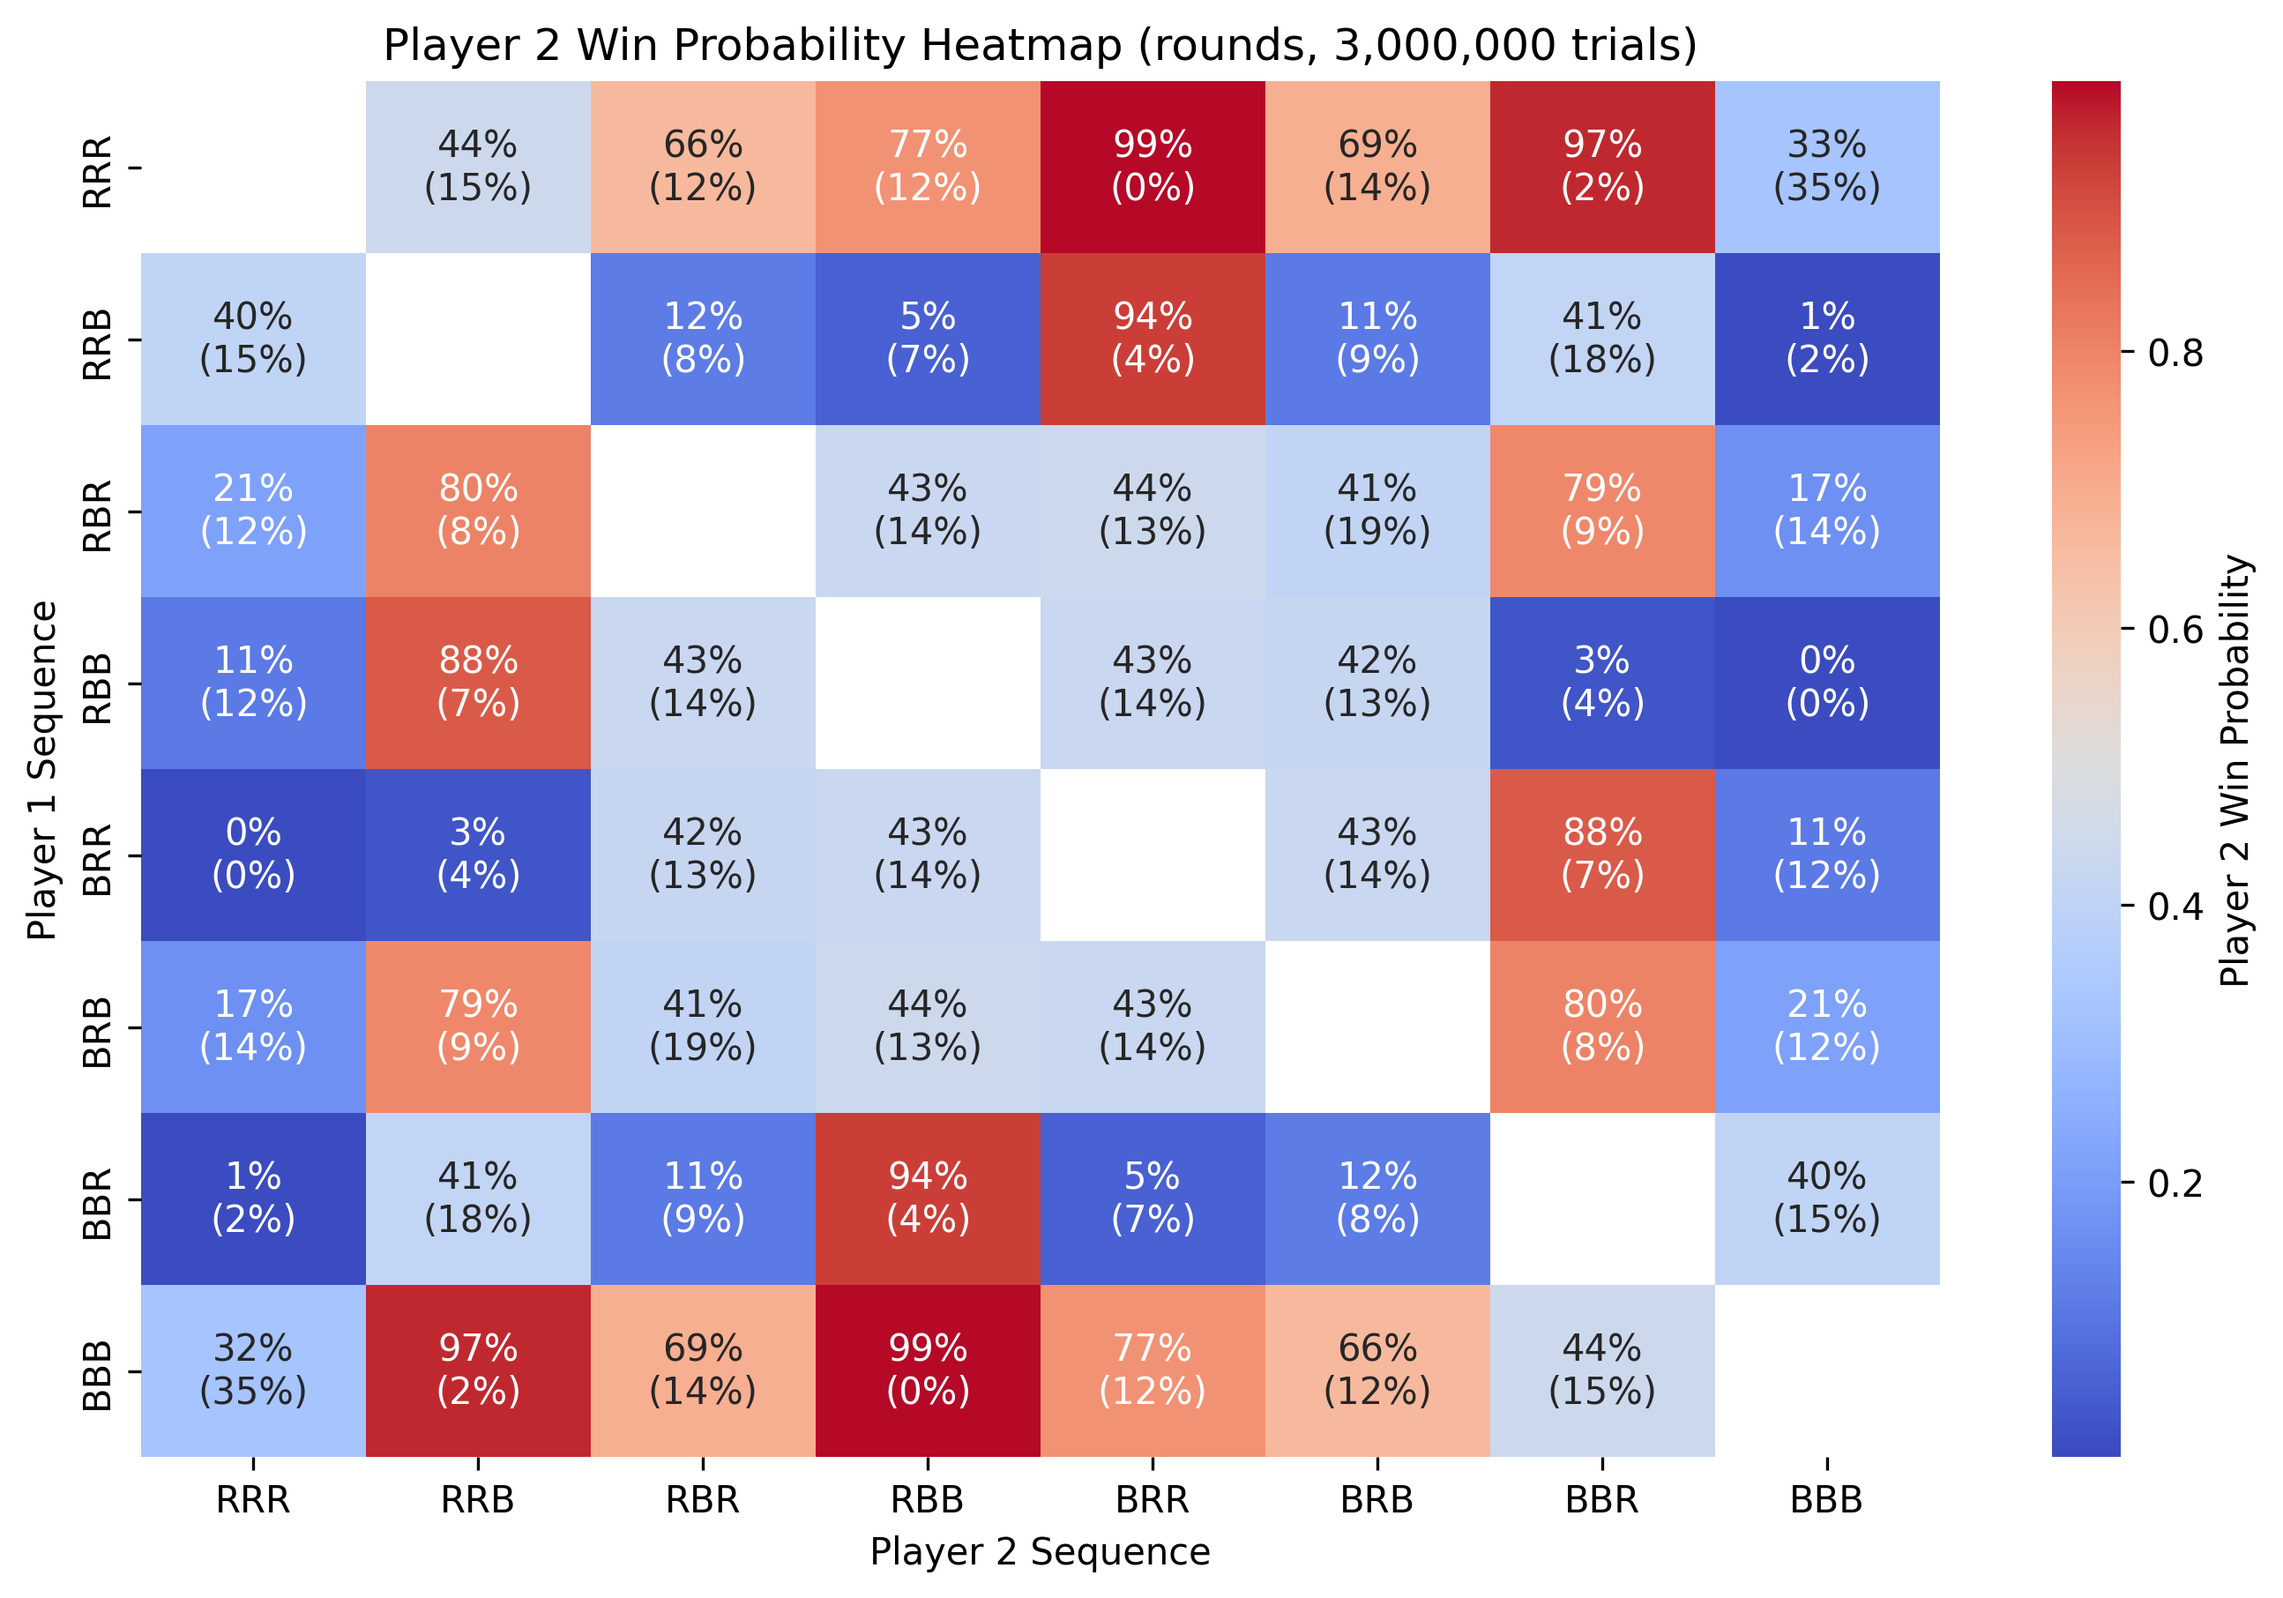
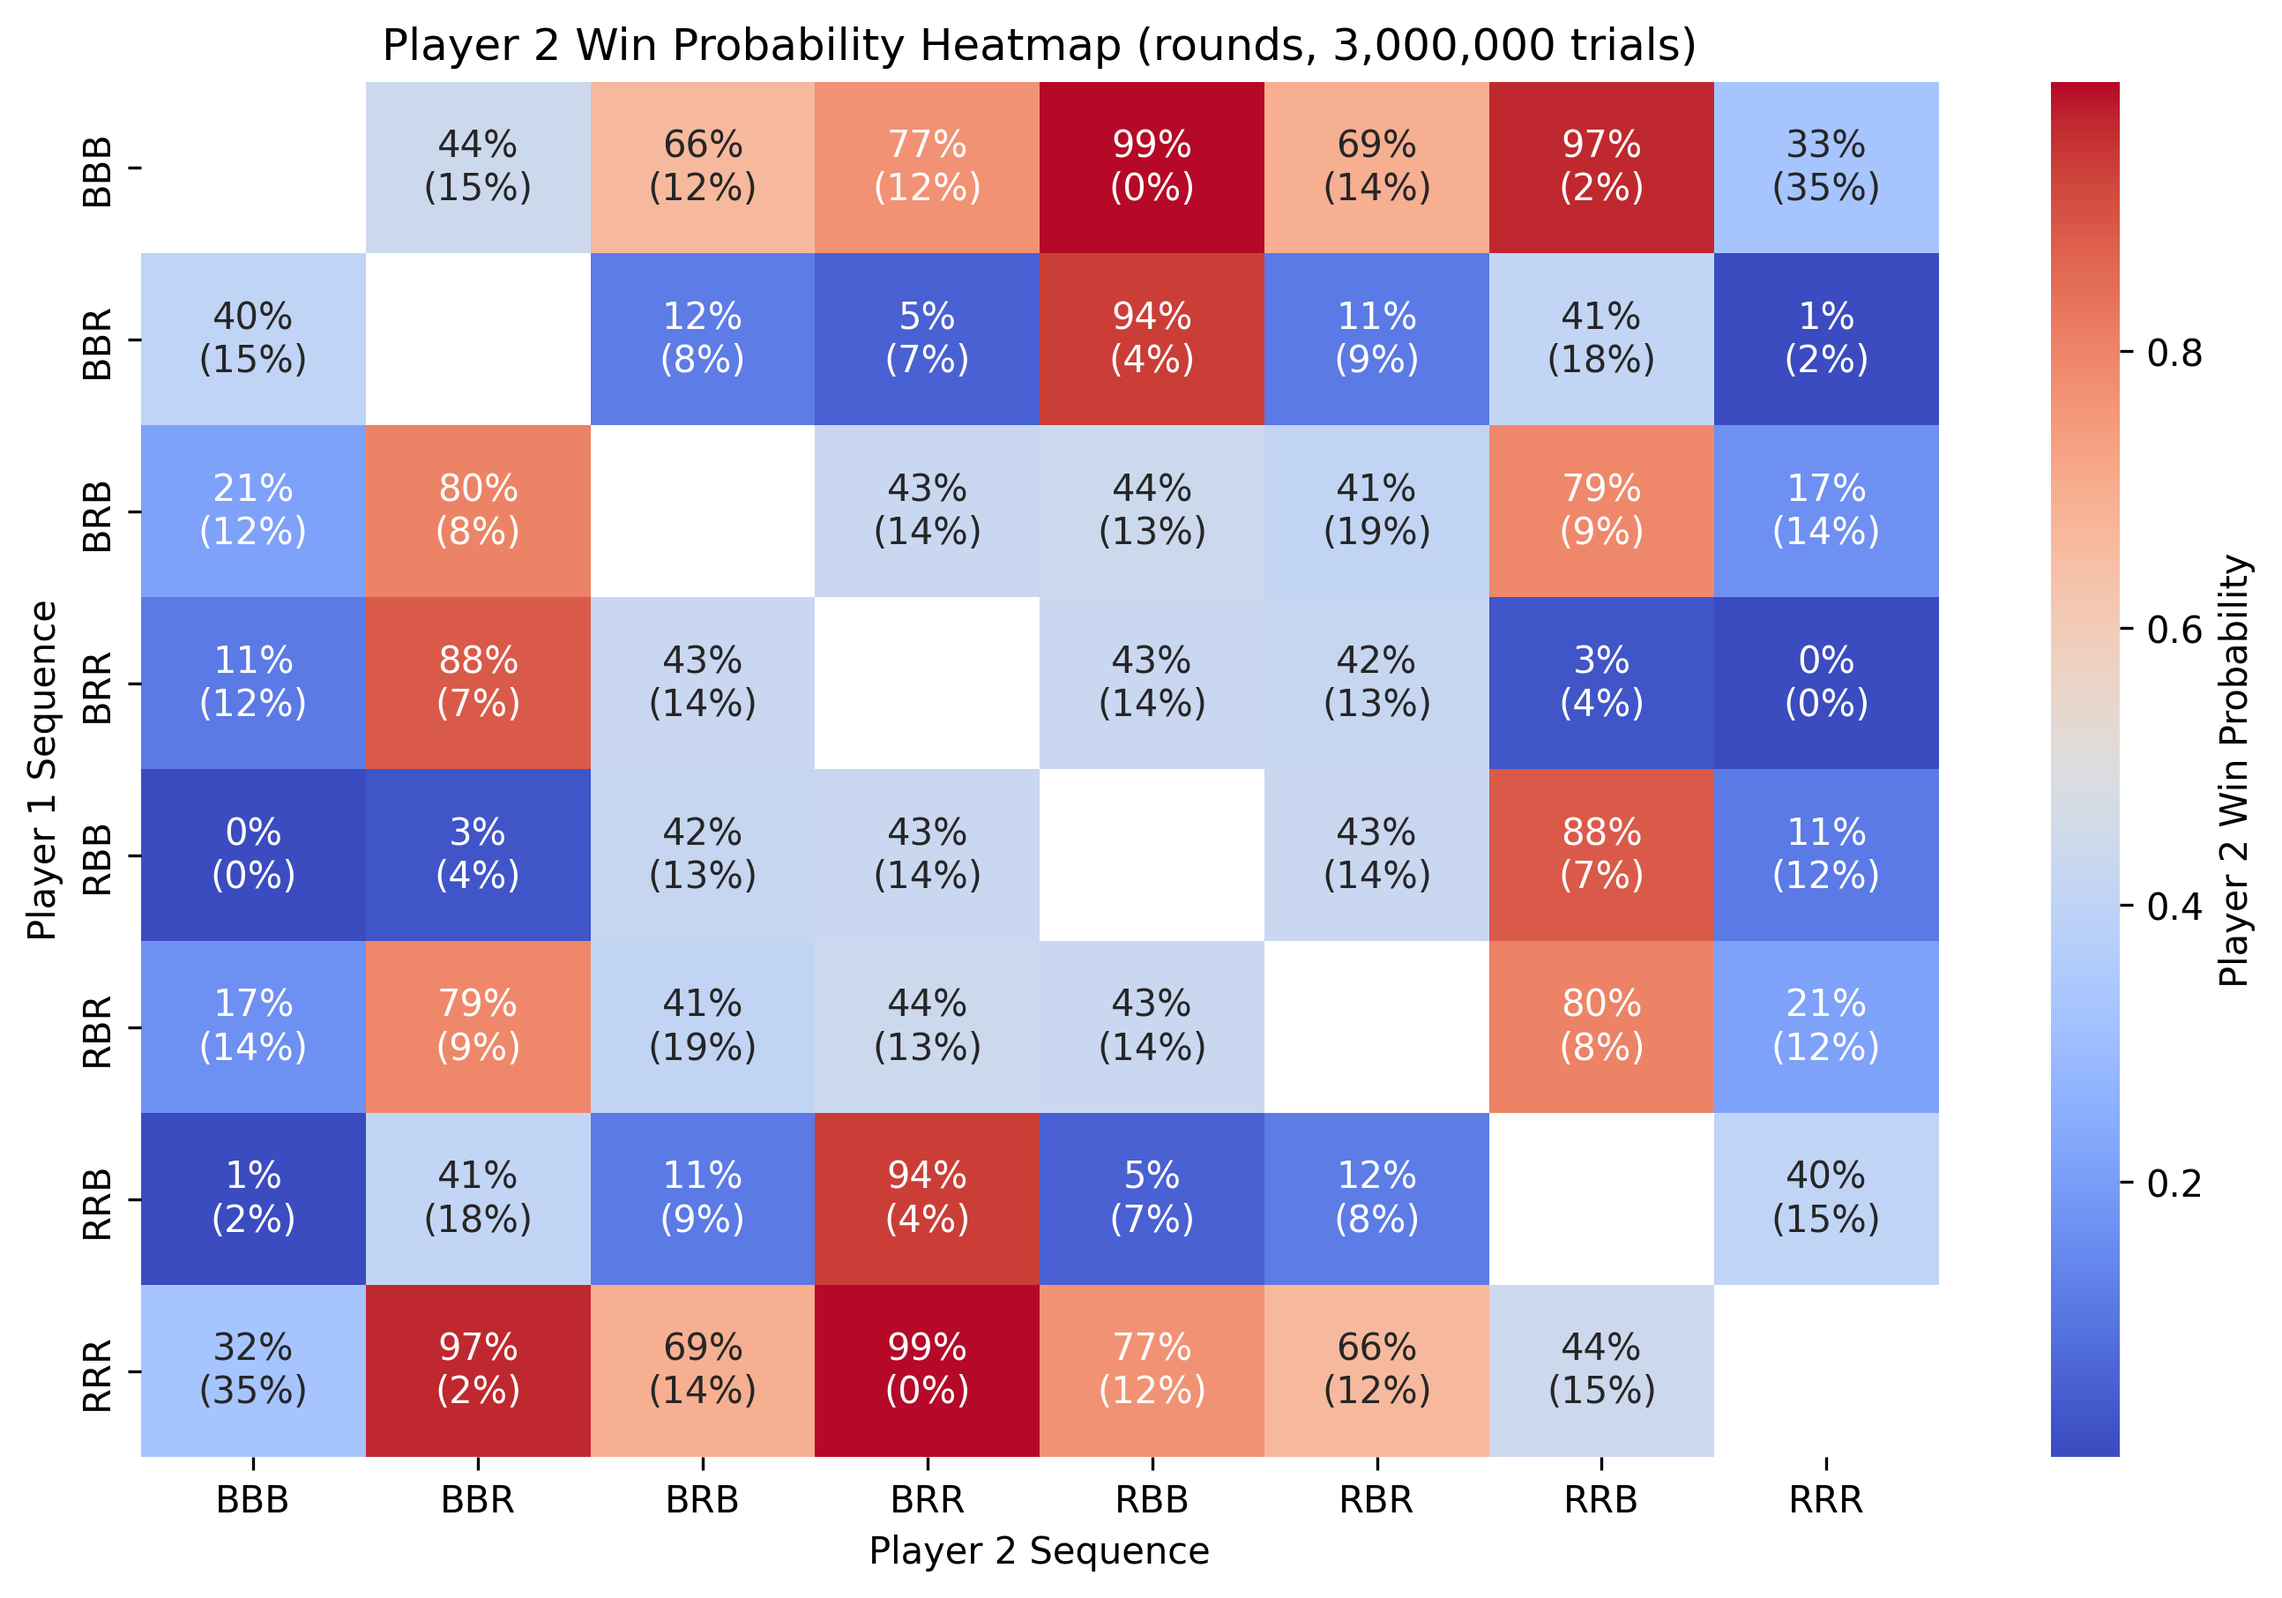
switch win probability axis to match example heatmap given

diff --git a/rons-game/src/viz.py b/rons-game/src/viz.py
@@ -278,6 +278,7 @@ def plot_win_probability(ax, data: dict, labels: list[str], trials: int, scoring
                 annot[i, j] = f'{win_prob[i,j]*100:.0f}%\n({tie_prob[i,j]*100:.0f}%)'
 
     ax.clear()
+    # rev_labels = labels.reverse()
     sns.heatmap(
         win_prob,
         # mask=mask,
@@ -285,8 +286,8 @@ def plot_win_probability(ax, data: dict, labels: list[str], trials: int, scoring
         fmt='',
         cmap='coolwarm',
         center=0.5,
-        xticklabels=labels,
-        yticklabels=labels,
+        xticklabels=labels[::-1],
+        yticklabels=labels[::-1],
         cbar_kws={"label": "Player 2 Win Probability"},
         ax=ax
     )
